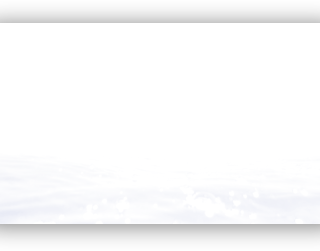
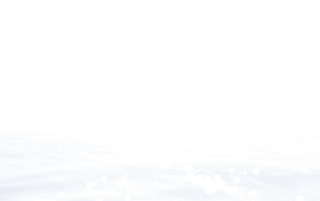
testimonial section done

Changed region(s): [[0.0, 0.8657, 1.0, 0.9552], [0.0, 0.0597, 1.0, 0.0896]]

diff --git a/app/assets/stylesheets/pages/_home.scss b/app/assets/stylesheets/pages/_home.scss
@@ -114,9 +114,8 @@ p {
 }
 
 
-.space-between{
-  height: 40px;
-  width: 100vw;
+.space-between-80px{
+  height: 80px;
   background-color: transparent;
 }
 
@@ -124,11 +123,6 @@ p {
 .testimonial-slider{
   //height: 100px;
   background-image: asset-url('background-testimonials.png');
-  margin-top: 60px;
-
-  img {
-    width: 100vw;
-  }
 
   h4 {
     color: #3A4B7E;
@@ -137,6 +131,36 @@ p {
   p {
     color: #59637E;
   }
+}
+
+.testimonial-header {
+  height: 66px;
+  text-align: center;
+
+  img {
+   position: relative;
+   top: -68px;
+  }
+}
+
+.testimonial-body {
+  margin-top: -10px;
+
+  h4 {
+    text-align: center;
+  }
+
+  p {
+    text-align: justify;
+  }
+}
+
+/* FOOTER */
+
+.footer {
+  display: flex;
+
+
 }
 
 
